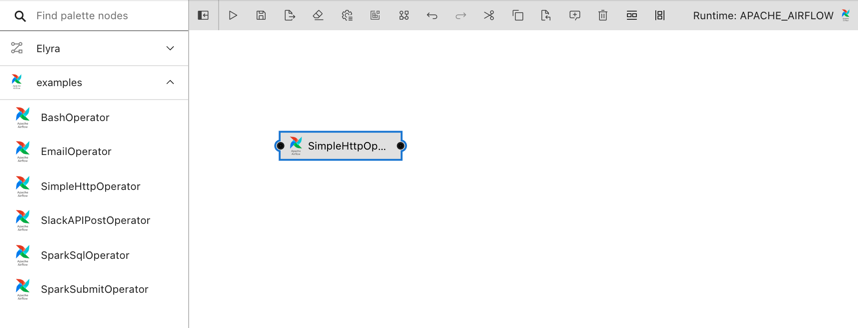
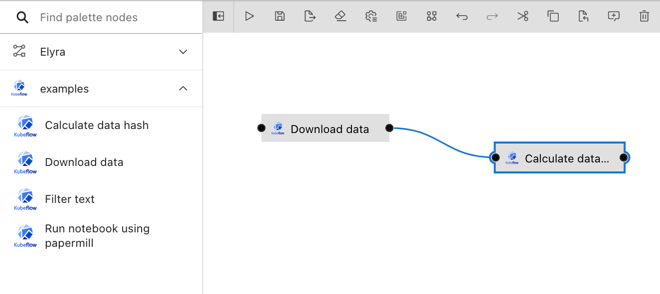
Remove references to deprecated 'elyra-examples-airflow-catalog' package (#2529)

diff --git a/tests/integration/pipeline.ts b/tests/integration/pipeline.ts
@@ -585,25 +585,6 @@ describe('Pipeline Editor tests', () => {
     cy.findByRole('button', { name: /cancel/i }).click();
   });
 
-  it('airflow pipeline should display custom components', () => {
-    cy.createExampleComponentCatalog({ type: 'airflow' });
-    cy.createPipeline({ type: 'airflow' });
-    cy.get('.palette-flyout-category[value="examples"]').click();
-
-    const airflowCustomComponents = [
-      'elyra-airflow-examples-catalog\\:3a55d015ea96', // bash operator
-      'elyra-airflow-examples-catalog\\:a043648d3897', // email operator
-      'elyra-airflow-examples-catalog\\:b94cd49692e2', // http operator
-      'elyra-airflow-examples-catalog\\:3b639742748f', // spark sql operator
-      'elyra-airflow-examples-catalog\\:b29c25ec8bd6', // spark submit operator
-      'elyra-airflow-examples-catalog\\:16a204f716a2' // slack post operator
-    ];
-
-    airflowCustomComponents.forEach(component => {
-      cy.get(`#${component}`).should('exist');
-    });
-  });
-
   it('airflow pipeline should display expected export options', () => {
     cy.createPipeline({ type: 'airflow' });
     cy.savePipeline();

diff --git a/tests/integration/submitnotebookbutton.ts b/tests/integration/submitnotebookbutton.ts
@@ -66,4 +66,5 @@ const openNewNotebookFile = (): void => {
   )
     .first()
     .click();
+  cy.wait(500);
 };

diff --git a/setup.py b/setup.py
@@ -47,9 +47,6 @@ runtime_extras = {
     # Kubeflow Pipelines example components
     # (https://github.com/elyra-ai/examples/tree/master/component-catalog-connectors/kfp-example-components-connector)
     'kfp-examples': ['elyra-examples-kfp-catalog'],
-    # Apache Airflow example components
-    # (https://github.com/elyra-ai/examples/tree/master/component-catalog-connectors/airflow-example-components-connector)
-    'airflow-examples': ['elyra-examples-airflow-catalog'],
     # Use gitlab as Airflow DAG repository
     'gitlab': ['python-gitlab']
 }

diff --git a/docs/source/user_guide/pipeline-components.md b/docs/source/user_guide/pipeline-components.md
@@ -69,24 +69,22 @@ You can add support for other component catalogs by installing a connector from 
 
 #### Example custom components
 
-To help you get started with custom components, the Elyra community has selected a couple for each supported runtime type and makes them available using _example catalogs_. 
+To help you get started with custom components, the Elyra community has selected a couple for Kubeflow Pipelines and makes them available using _example catalogs_. 
 
 ![Example pipeline for the HTTP component](../images/user_guide/pipeline-components/example-components-pipeline.png)
 
 Whether or not your Elyra includes the example components depends on how you deployed it:
-- The community maintained [pre-built container images](getting_started.html#docker) have the example component catalogs for Kubeflow Pipelines and Apache Airflow pre-installed and enabled. The components are ready to use in the pipeline editor.
-- All-inclusive stand-alone installations (e.g. `pip install elyra[all]`) include the example component catalogs. However, the catalogs must be explicitly added to the palette.
-- Core-only installations (e.g. `pip install elyra`) do not include the example components. The example catalogs must be separately installed and explicitly added to the palette. 
+- The community maintained [pre-built container images](getting_started.html#docker) have the example component catalogs for Kubeflow Pipelines pre-installed and enabled. The components are ready to use in the pipeline editor.
+- All-inclusive stand-alone installations (e.g. `pip install elyra[all]`) include the example components. However, the catalog must be explicitly added to the palette.
+- Core-only installations (e.g. `pip install elyra`) do not include the example components. The example catalog must be separately installed and explicitly added to the palette. 
 
 **Installing and enabling the component examples catalogs**
 
-If necessary, follow the instructions for the appropriate catalog:
- - [Kubeflow Pipelines component examples catalog](https://github.com/elyra-ai/examples/tree/master/component-catalog-connectors/kfp-example-components-connector)
- - [Apache Airflow component examples catalog](https://github.com/elyra-ai/examples/tree/master/component-catalog-connectors/airflow-example-components-connector)
+Follow the instructions in [Kubeflow Pipelines component examples catalog](https://github.com/elyra-ai/examples/tree/master/component-catalog-connectors/kfp-example-components-connector).
 
 Details and demo pipelines for some of the included components can be found in the Elyra examples repository:
 - [Kubeflow Pipeline components](https://github.com/elyra-ai/examples/tree/master/pipelines/kubeflow_pipelines_component_examples)
-- [Apache Airflow components](https://github.com/elyra-ai/examples/tree/master/pipelines/airflow_component_examples)
+
 
 ### Special considerations for custom Airflow components
 Custom Airflow components imported from some types of component catalog connectors require additional configuration 

diff --git a/docs/source/getting_started/installation.md b/docs/source/getting_started/installation.md
@@ -42,7 +42,6 @@ Prior to version 3.1, the `elyra` package included all dependencies. Subsequent 
 - `elyra[kfp-tekton]` - install the Elyra core features and support for [Kubeflow Pipelines on Tekton](https://github.com/kubeflow/kfp-tekton)
 - `elyra[gitlab]` - install the Elyra core features and GitLab support for Apache Airflow pipelines
 - `elyra[kfp-examples]` - install the Elyra core features and [Kubeflow Pipelines custom component examples](https://github.com/elyra-ai/examples/tree/master/component-catalog-connectors/kfp-example-components-connector)
-- `elyra[airflow-examples]` - install the Elyra core features and [Apache Airflow custom component examples](https://github.com/elyra-ai/examples/tree/master/component-catalog-connectors/airflow-example-components-connector)
 
 ### pip
 
